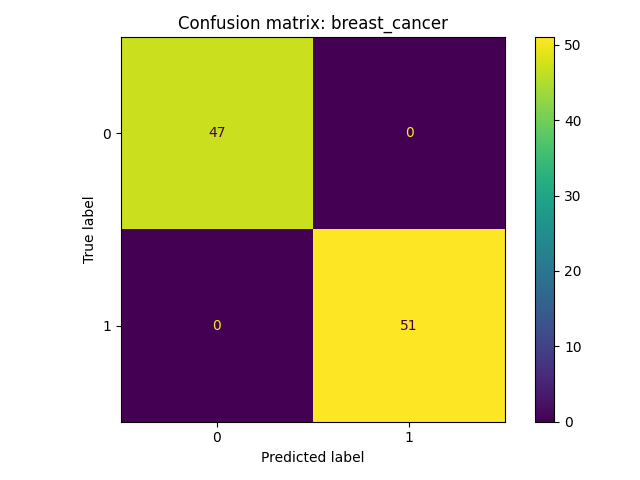
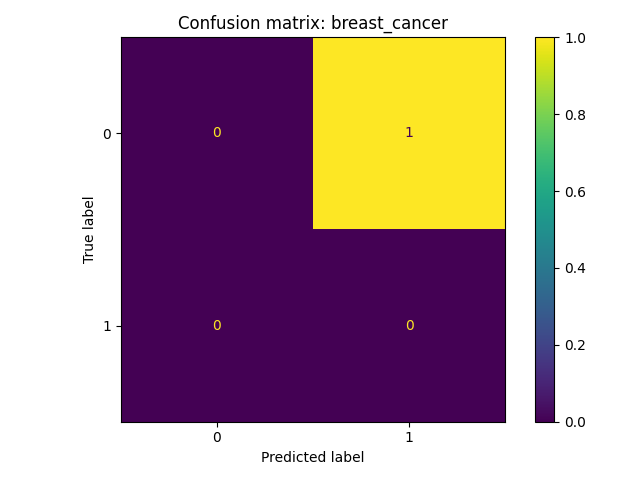
update

diff --git a/2_llm_mcp.py b/2_llm_mcp.py
@@ -140,33 +140,32 @@ class LLMPlannerAgent(BaseAgent):
             # Call LLM and parse response
 
             disease = response_parsed.primary
+            routes = response_parsed.routes
 
             # store triage decision in model context
             triage_log = {
                 "PatientID": pid,
-                "routes": response_parsed.routes,
+                "routes": routes,
                 "primary": disease,
                 "labels": payload["labels"]
             }
             self.model.triage_log.append(triage_log)
 
-
-            if disease in list(payload["data"].keys()):
-            for disease in :
-                
-                task_id = f"task_{disease}_{pid}"
-                task = {
-                    "id": pid, 
-                    "description": 
-                    f"Analyze {disease} data", 
-                    "data": payload["data"][disease],
-                    "triage": triage_log
-                }
-                self.model.context[task_id] = task
-                print(task)
-                print(f"[{self.role}] Planned task {task_id}")
-            else:
-                remaining.append(case)
+            for disease in routes:
+                if disease in list(payload["data"].keys()):
+                    task_id = f"task_{disease}_{pid}"
+                    task = {
+                        "id": pid, 
+                        "description": 
+                        f"Analyze {disease} data", 
+                        "data": payload["data"][disease],
+                        "triage": triage_log
+                    }
+                    self.model.context[task_id] = task
+                    print(task["triage"])
+                    print(f"[{self.role}] Planned task {task_id}")
+                else:
+                    remaining.append(case)
 
             # Route to appropriate executors based on LLM decision
             
